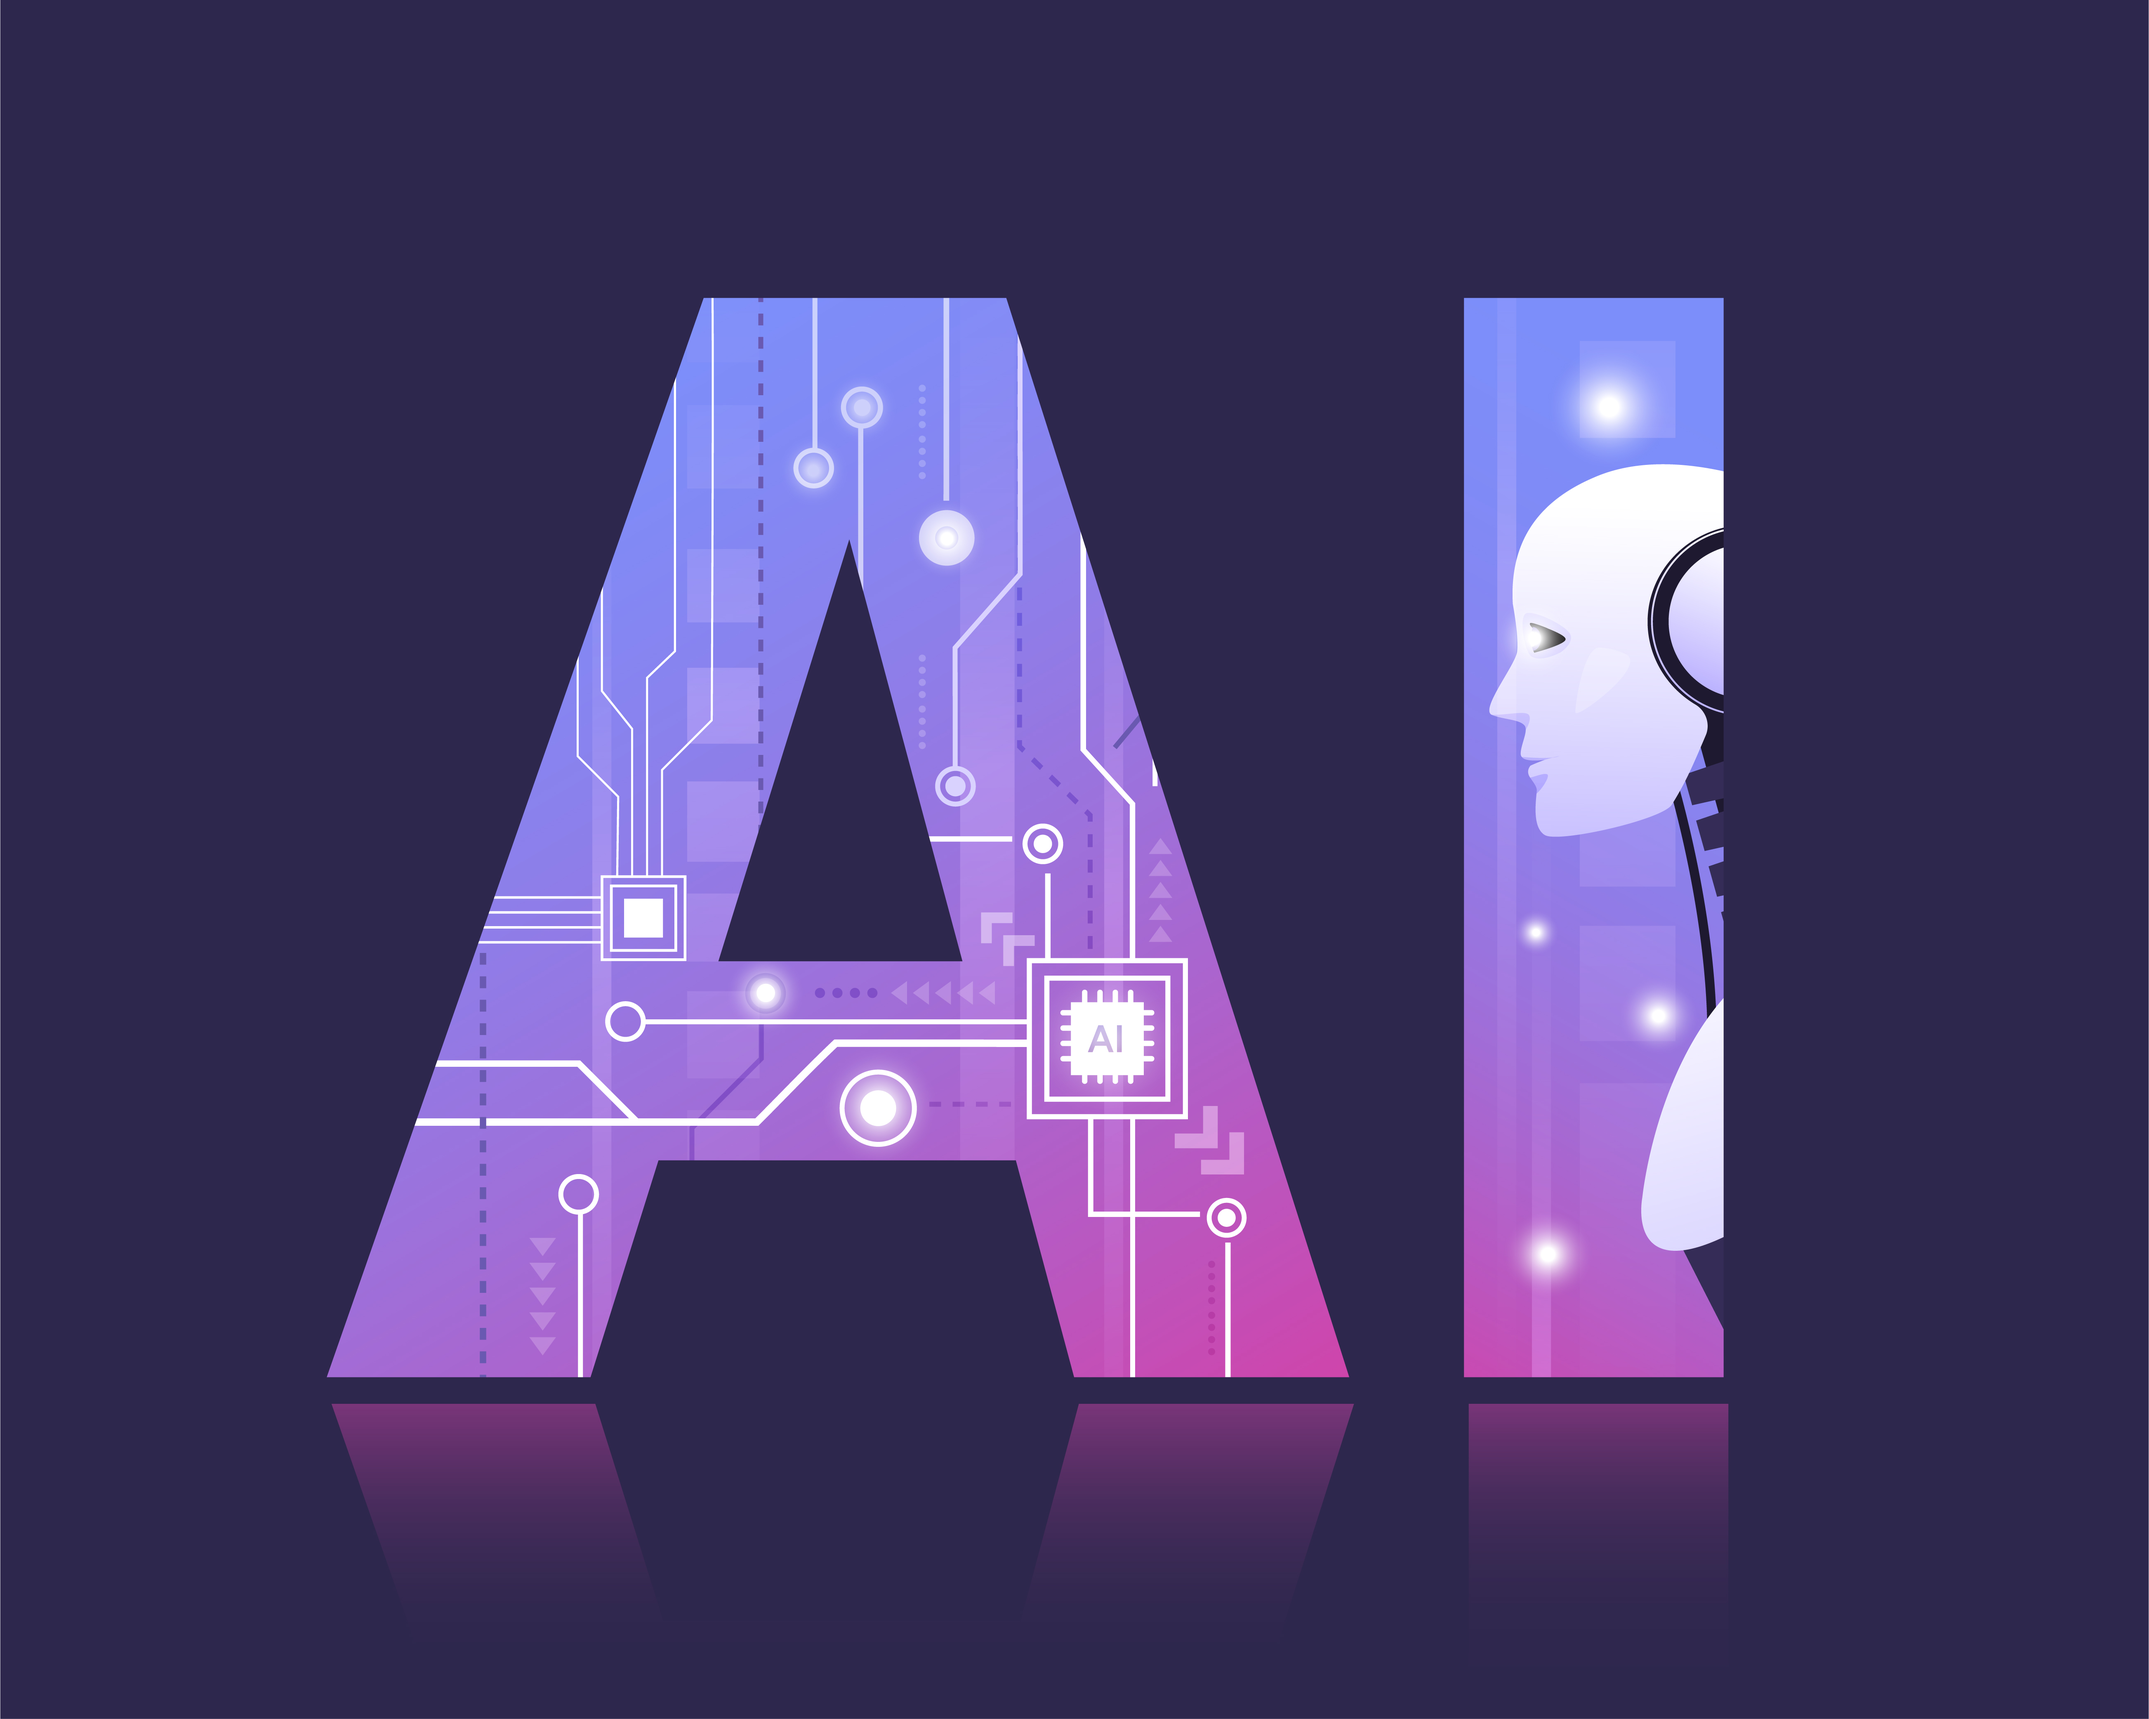
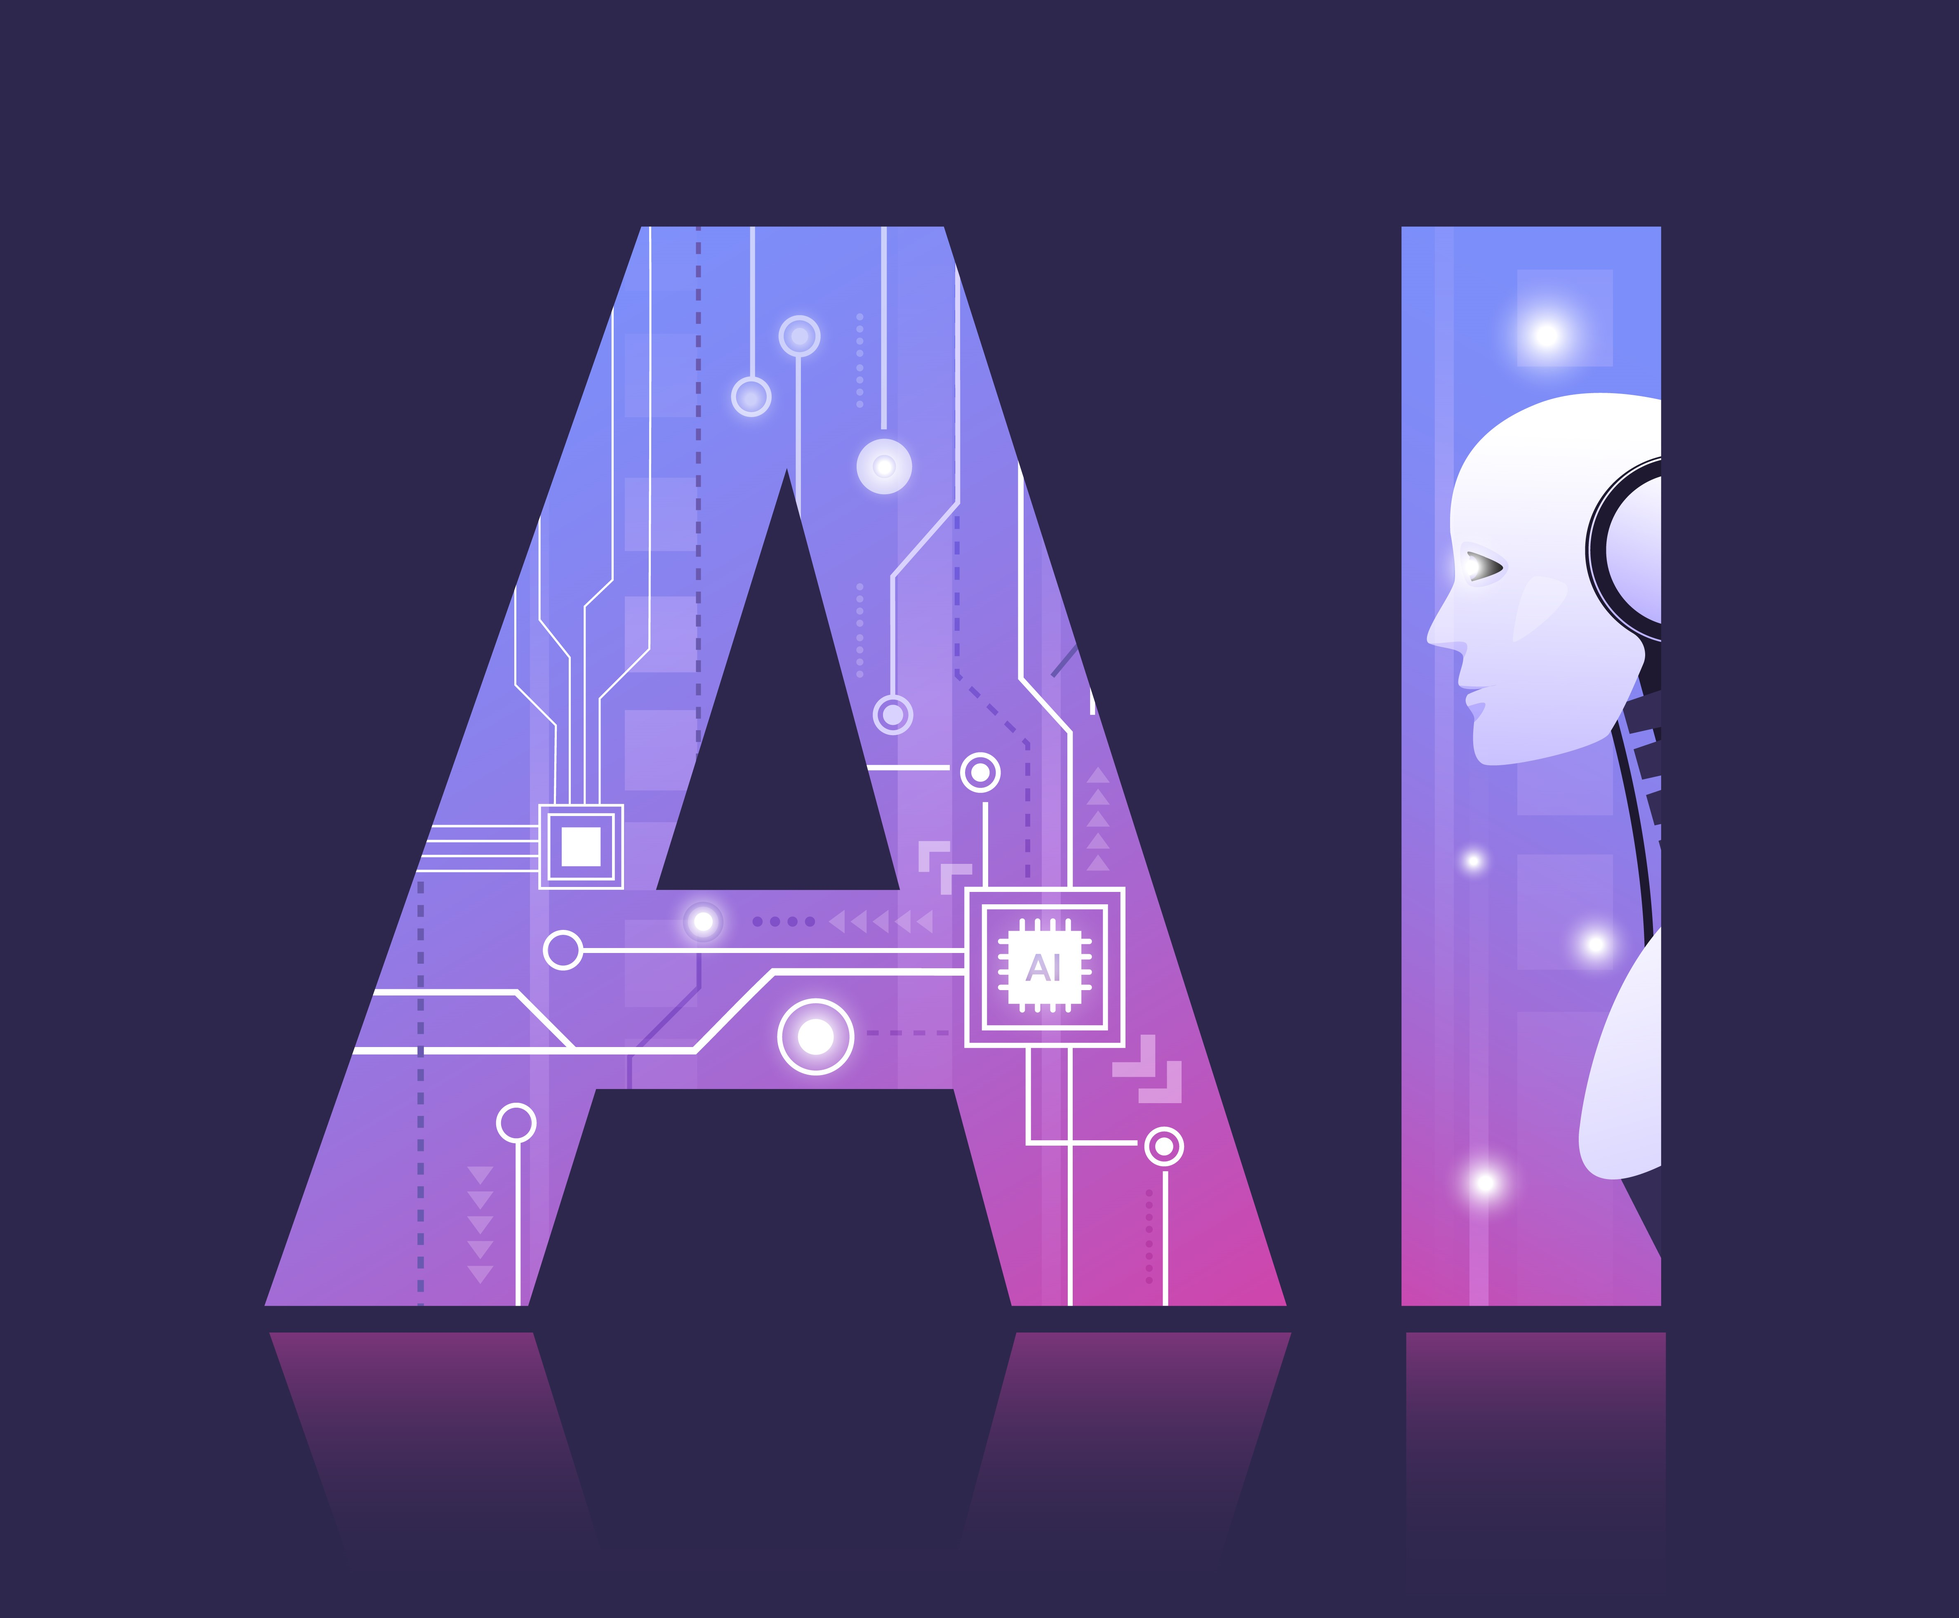
change image layout

Changed region(s): [[0.1246, 0.1244, 0.8724, 0.9021], [0.9971, 0.9954, 1.0, 1.0], [0.2804, 0.8399, 0.3116, 0.871]]

diff --git a/lib/views/splash_screen.dart b/lib/views/splash_screen.dart
@@ -50,7 +50,7 @@ class _SplashScreenState extends State<SplashScreen>
       decoration: const BoxDecoration(
         image: DecorationImage(
           image: AssetImage('assets/ai_back.jpg'),
-          fit: BoxFit.fill,
+          fit: BoxFit.cover,
         ),
       ),
       child: Column(
